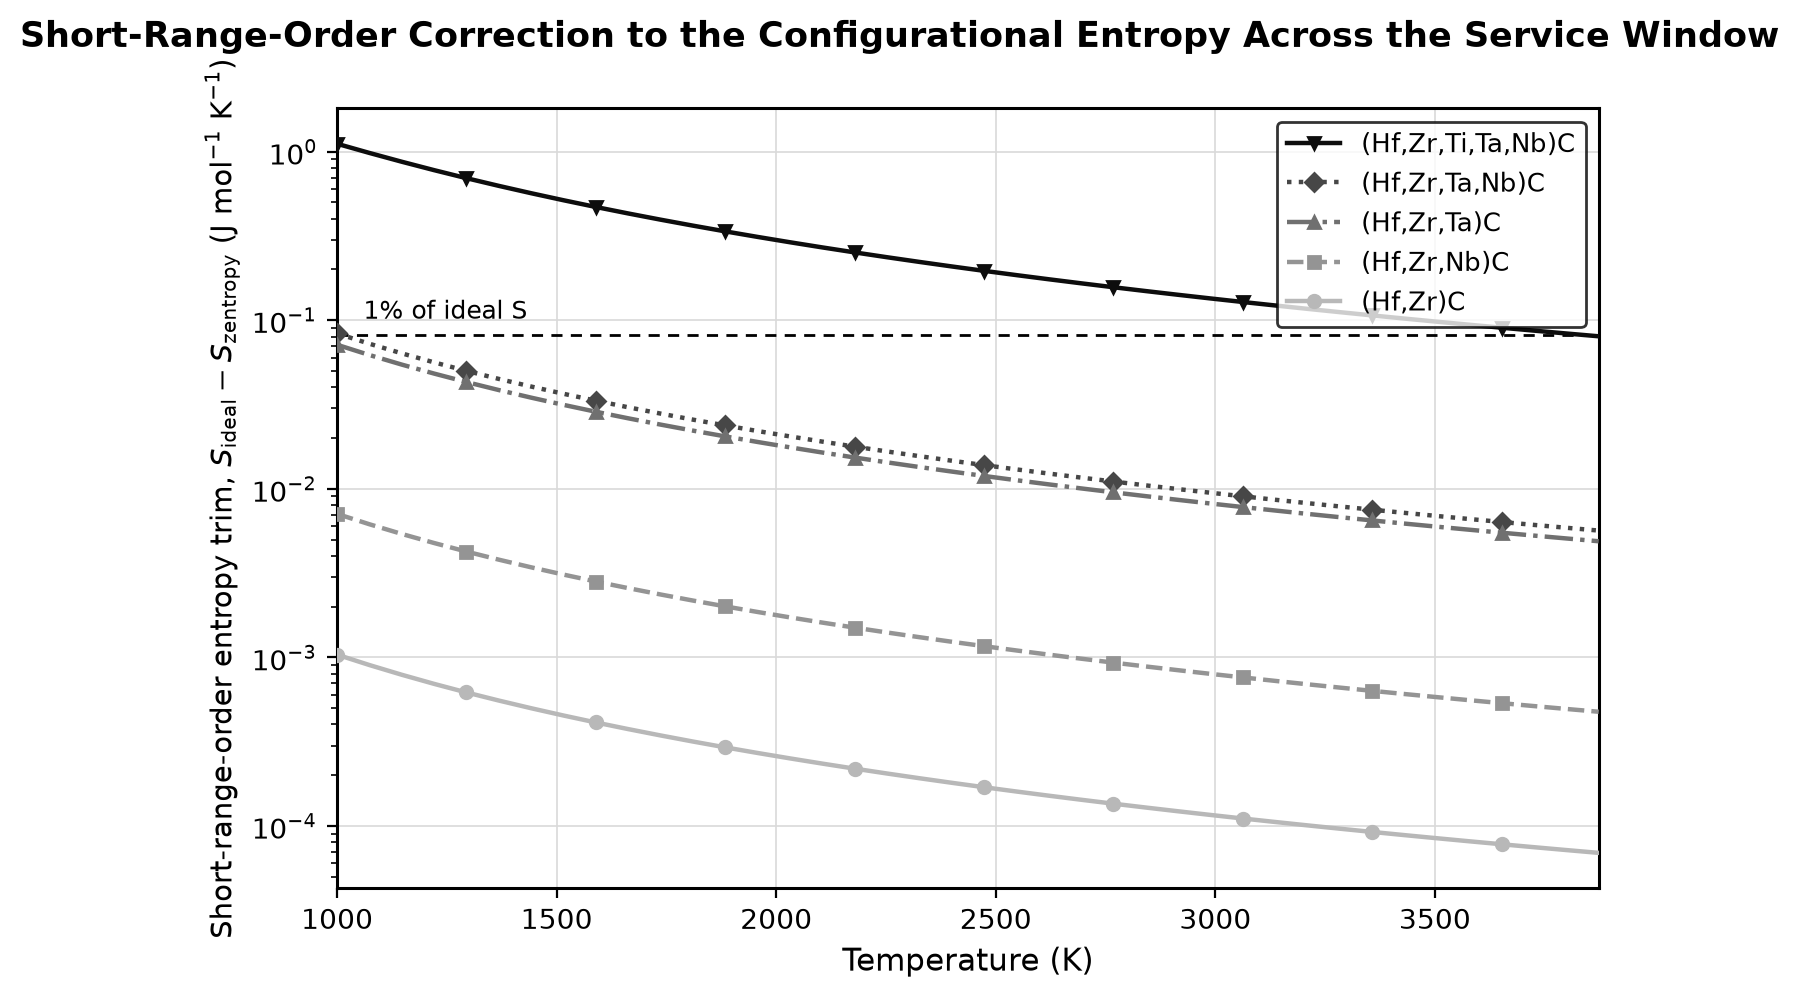
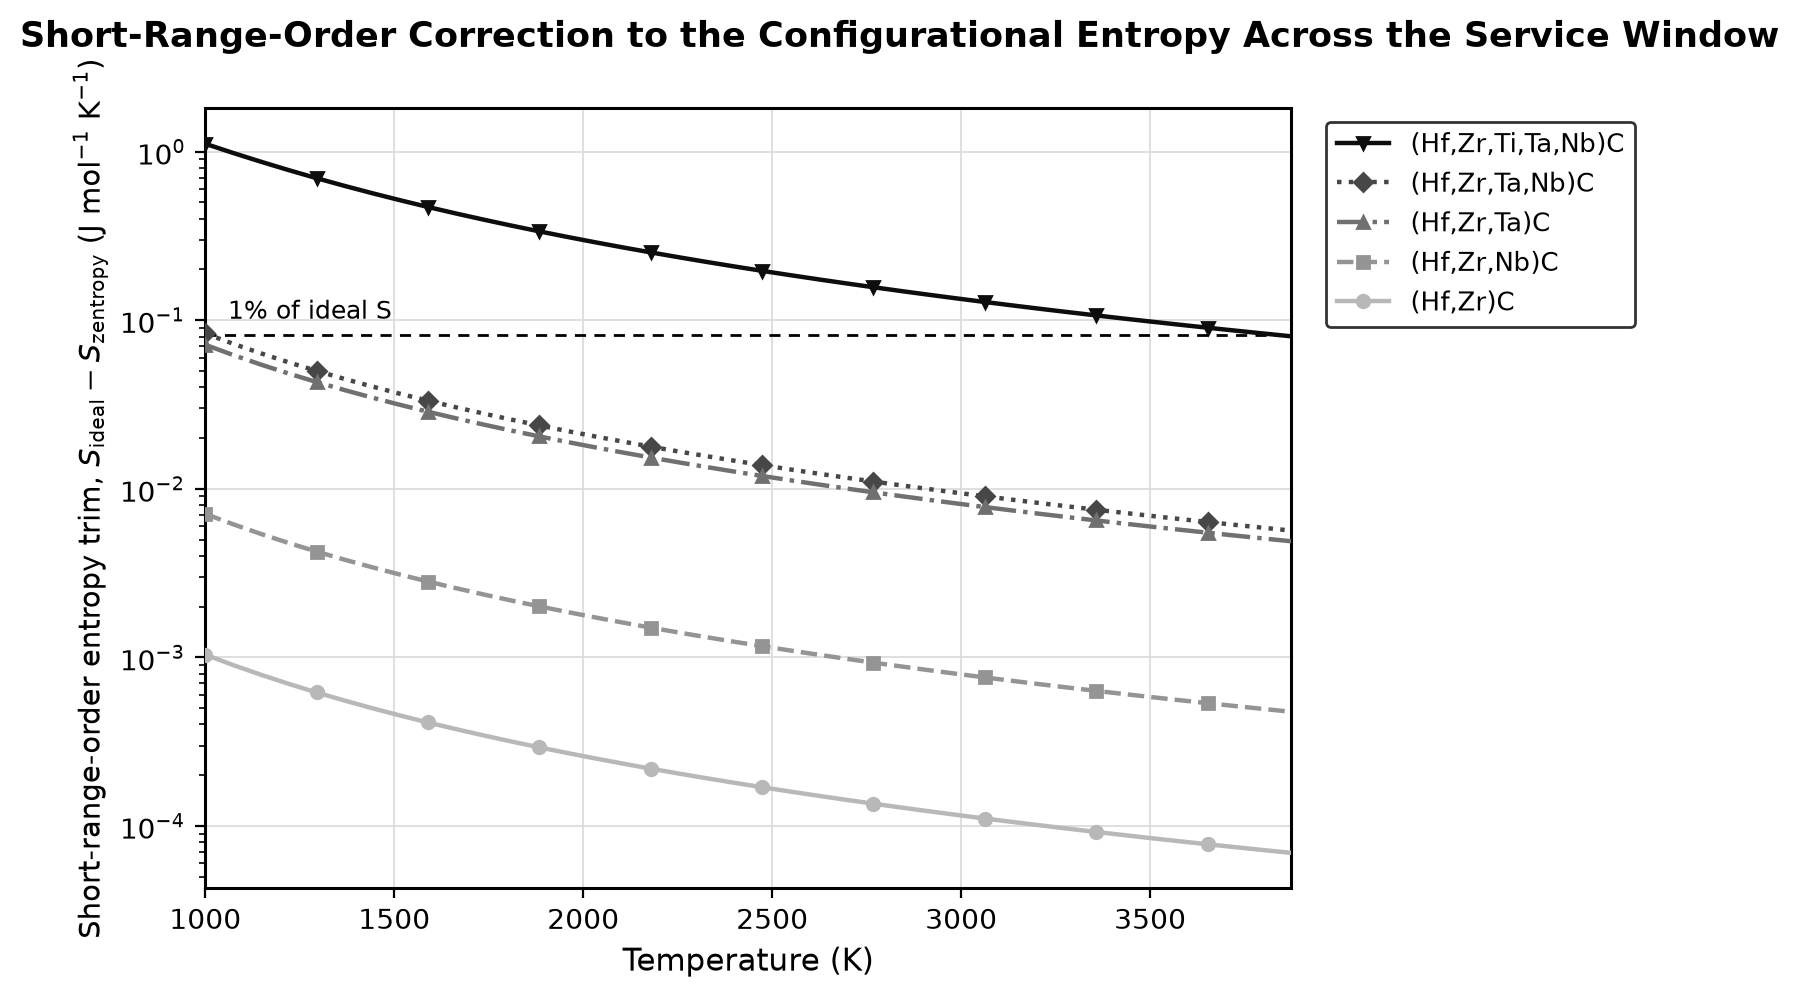
Deposit the Sol-computed DFT pair enthalpies; fix Figure 8 legend
Adds data/dft_pair_enthalpies.csv: the ten equiatomic pair mixing enthalpies computed on
the ASU Sol supercomputer, with full method provenance, matching the DFT_DHMIX constants
in code/stability_screen.py. This is the open deposit the manuscript's data-availability
statement points to.

Also syncs the Figure 8 fix (legend moved outside the axes so it no longer overlaps the
five-metal curve) and the stability_screen.py pointer to the new data file.

diff --git a/code/fig8_zentropy_sro.py b/code/fig8_zentropy_sro.py
@@ -30,8 +30,10 @@ STYLE = {
 plt.rcParams.update({"font.family": "DejaVu Sans", "axes.linewidth": 1.1,
                      "axes.edgecolor": "black", "axes.facecolor": "white",
                      "figure.facecolor": "white", "savefig.facecolor": "white"})
-fig, ax = plt.subplots(figsize=(7.6, 5.2))
-fig.subplots_adjust(top=0.88, bottom=0.13, left=0.13, right=0.96)
+fig, ax = plt.subplots(figsize=(8.9, 5.2))
+# room on the right for the legend, which is placed outside the axes so it never
+# overlaps the descending five-metal curve
+fig.subplots_adjust(top=0.88, bottom=0.13, left=0.11, right=0.72)
 
 for key in ["C5", "C4_noTi", "C3_HfZrTa", "C3_HfZrNb", "C2_HfZr"]:
     s = STYLE[key]
@@ -53,7 +55,8 @@ for sp in ax.spines.values():
     sp.set_color("black"); sp.set_linewidth(1.1)
 ax.tick_params(direction="out", length=3.5, color="black")
 ax.grid(True, which="major", axis="both", color="0.85", lw=0.6, zorder=0)
-leg = ax.legend(loc="upper right", fontsize=9.5, frameon=True, edgecolor="black", ncol=1)
+leg = ax.legend(loc="upper left", bbox_to_anchor=(1.02, 1.0), fontsize=9.5,
+                frameon=True, edgecolor="black", ncol=1)
 leg.get_frame().set_linewidth(1.0)
 
 fig.suptitle("Short-Range-Order Correction to the Configurational Entropy Across the Service Window",

diff --git a/code/stability_screen.py b/code/stability_screen.py
@@ -37,6 +37,8 @@ R = 8.314462618
 METALS5 = ["Hf", "Zr", "Ti", "Ta", "Nb"]
 
 # dHmix(0.5) in J/mol per f.u., DFT this work (QE 7.3.1, PBE, ONCV SG15). Positive = demixing.
+# These are the Sol-computed pair enthalpies; the openly-deposited copy with full method
+# provenance is data/dft_pair_enthalpies.csv (kept in step with the values below).
 DFT_DHMIX = {
     frozenset(("Hf", "Zr")):  -0.4e3,
     frozenset(("Hf", "Ti")): +12.0e3,

diff --git a/README.md b/README.md
@@ -23,6 +23,7 @@ tabulated thermochemistry and numpy.
 
 ```
 code/       stability screen, volatility, transport, recession, and figure scripts
+data/       the ten DFT pair enthalpies computed on ASU Sol, with method provenance
 figures/    figures 1–8 (PDF + PNG)
 graphical_abstract.{png,pdf}
 ```
@@ -30,6 +31,10 @@ graphical_abstract.{png,pdf}
 `code/sourced_volatility.py` is the single source of truth for the vaporization
 thermochemistry; each value traces to primary measurement or evaluated compilation in its
 module docstring, and `p_hfzr` is the coupled shared-oxygen mixed-scale solve.
+
+`data/dft_pair_enthalpies.csv` holds the ten equiatomic pair mixing enthalpies computed
+on the Sol supercomputer at Arizona State University (the only first-principles inputs);
+they match the `DFT_DHMIX` constants in `code/stability_screen.py`.
 
 ## Running
 
